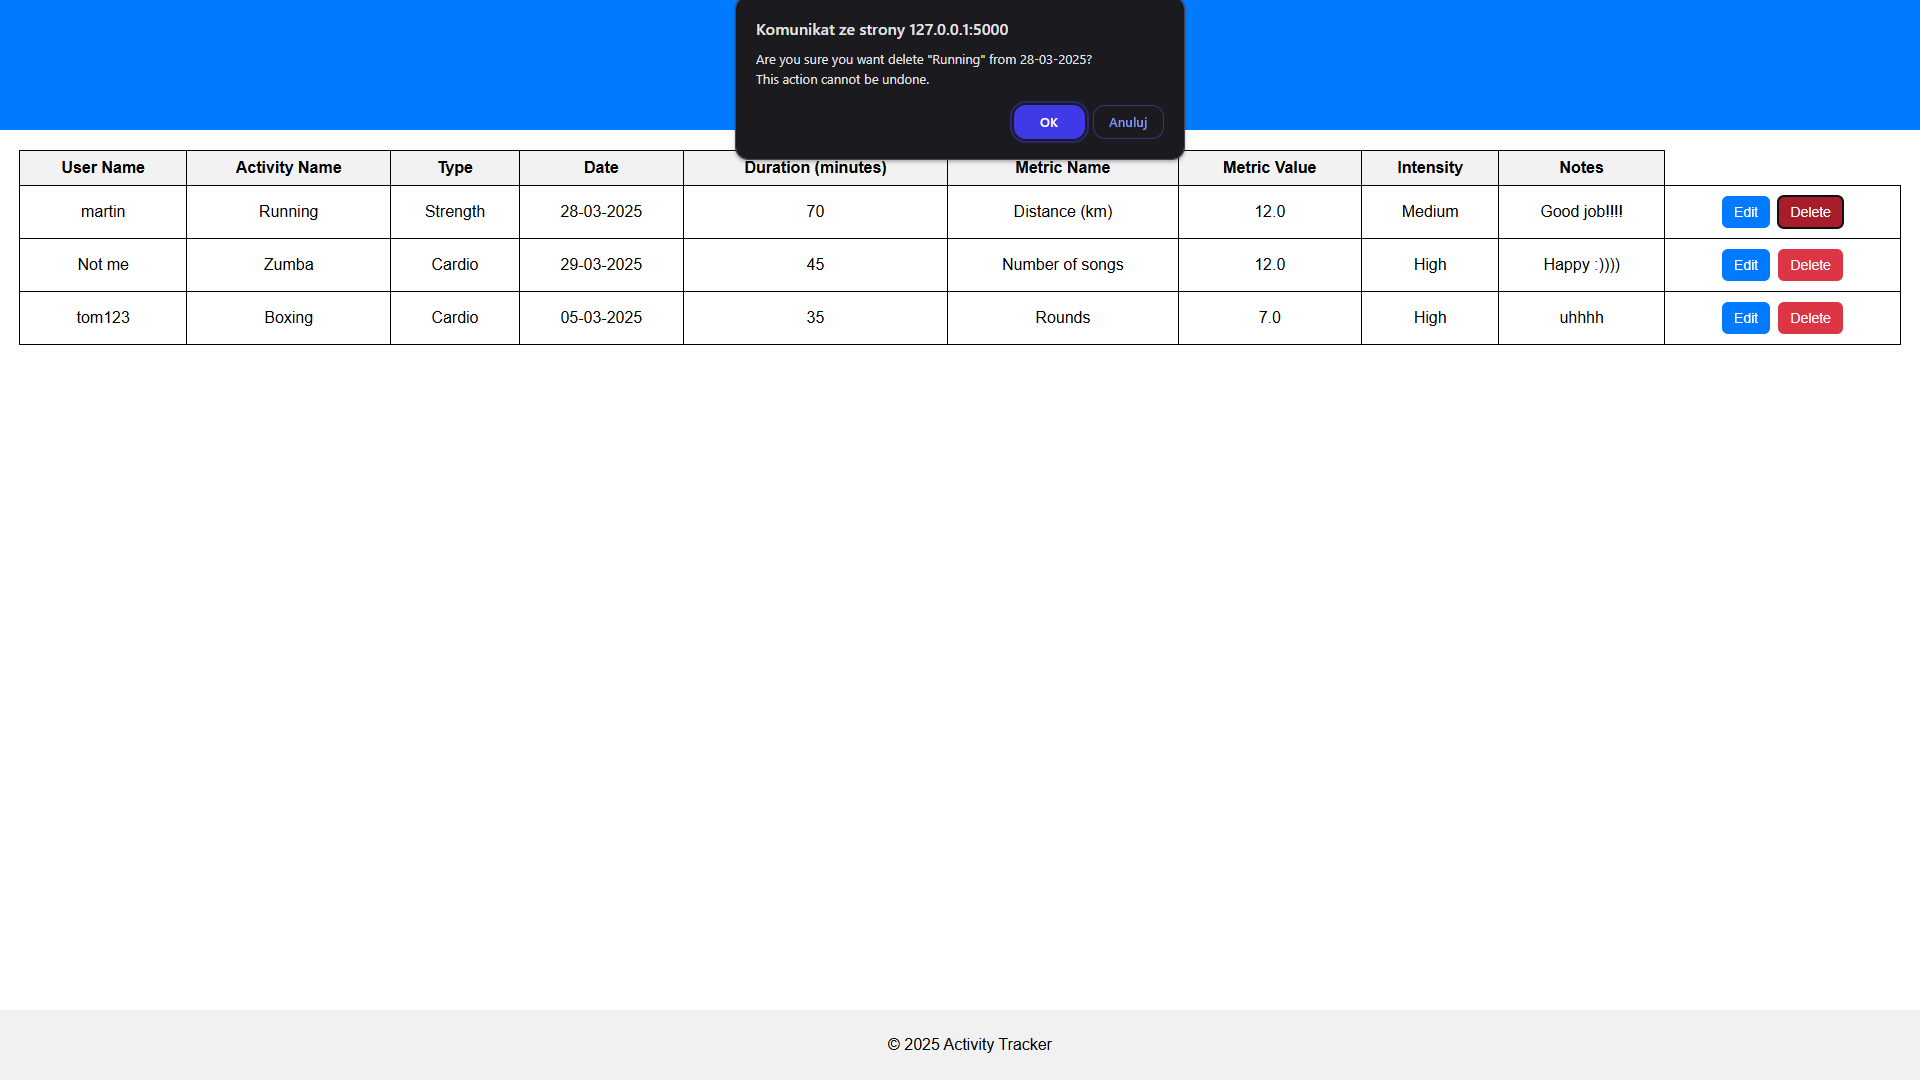
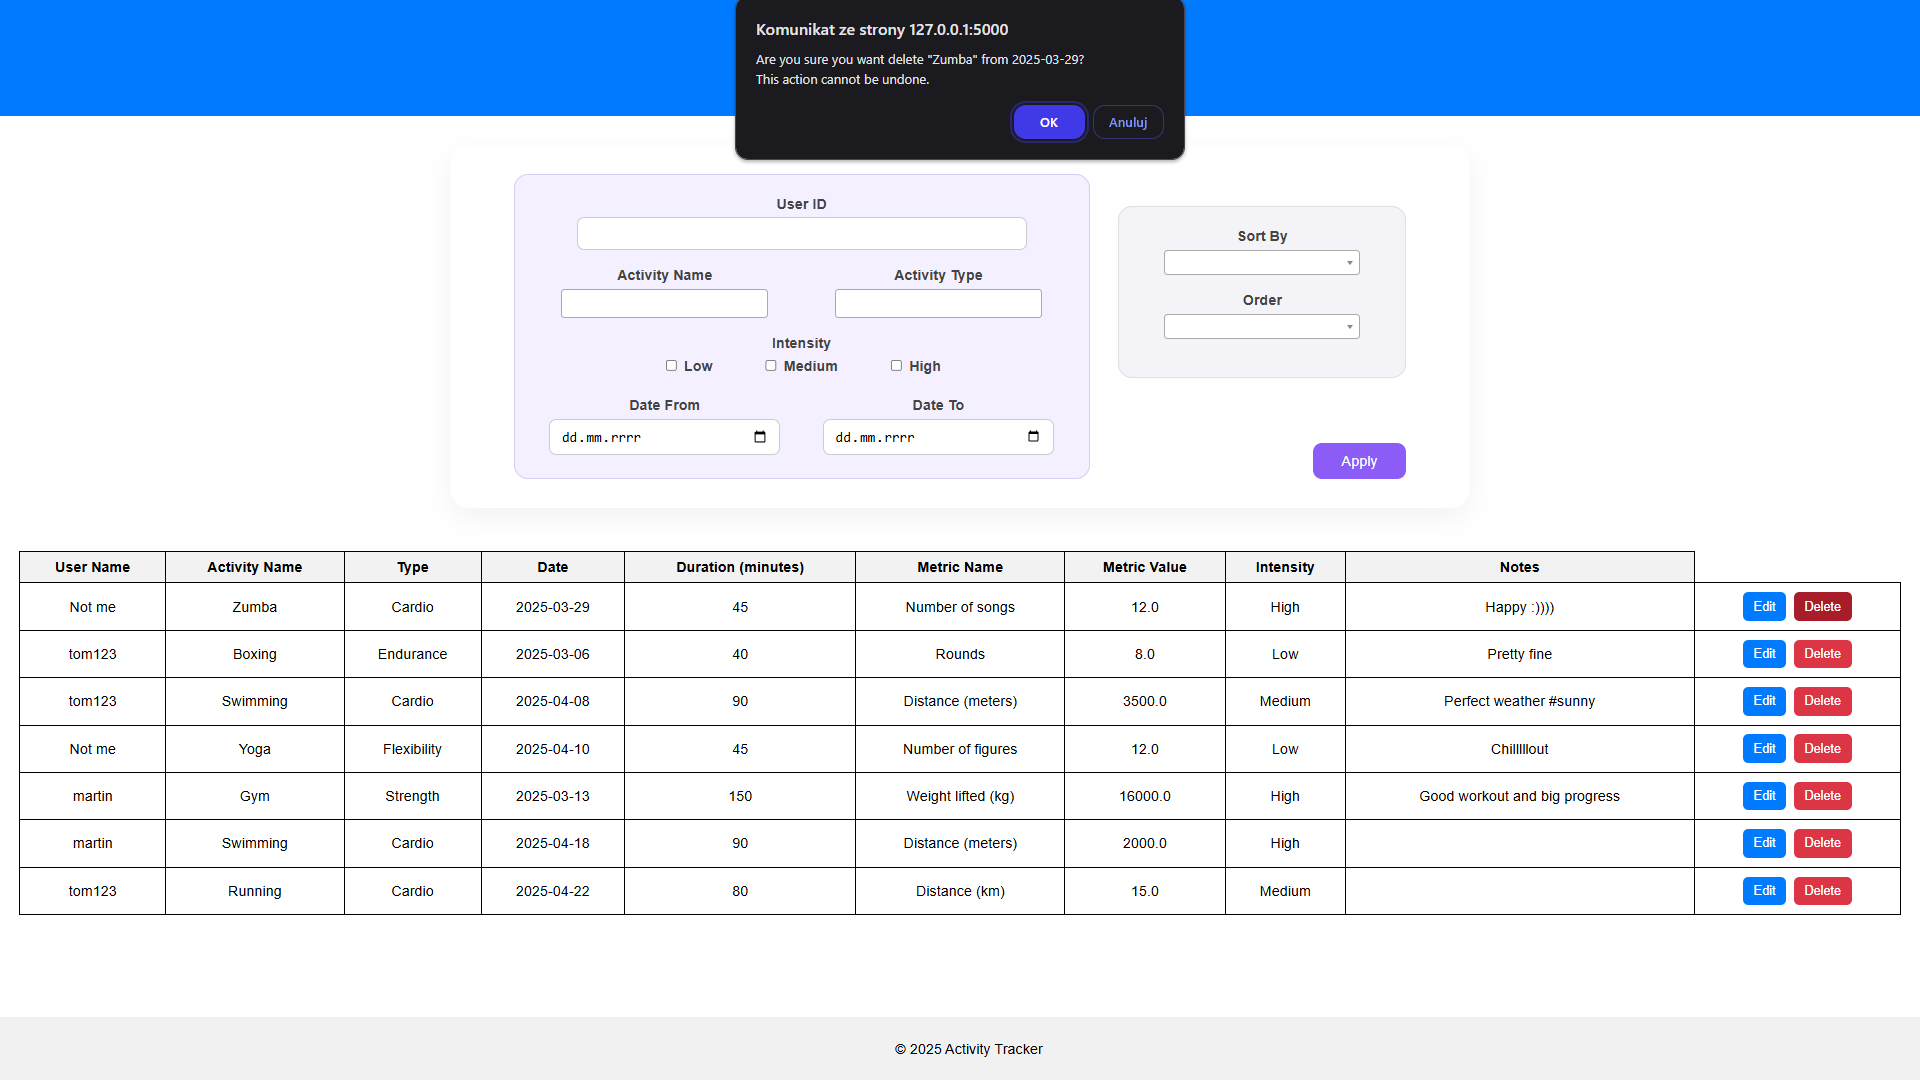
README updated

diff --git a/README.md b/README.md
@@ -26,7 +26,7 @@ A modern, user-friendly web application for tracking, managing, and analyzing ph
 - Clean, responsive UI built with HTML, CSS, and JavaScript
 - MongoDB integration for persistent data storage
 - Dynamic form fields based on user selections
-- Sorting and filtering according to available parameters *(in progress)*
+- Sorting and filtering according to available parameters
 - Visual statistics *(in progress)*
 - Report generation *(in progress)*
 - Downloading reports as PDF or sending to email *(in progress)*
@@ -59,6 +59,11 @@ A modern, user-friendly web application for tracking, managing, and analyzing ph
 
 ### 🔍 Manage Activities
 <img src="assets/manage_activity.png" alt="Search and manage your activity list" width="700"/>
+
+---
+
+### 🧐 Filtering and Sorting Activities
+<img src="assets/filtering_sorting.png" alt="Filtering and sorting your activity list" width="700"/>
 
 ---
 
